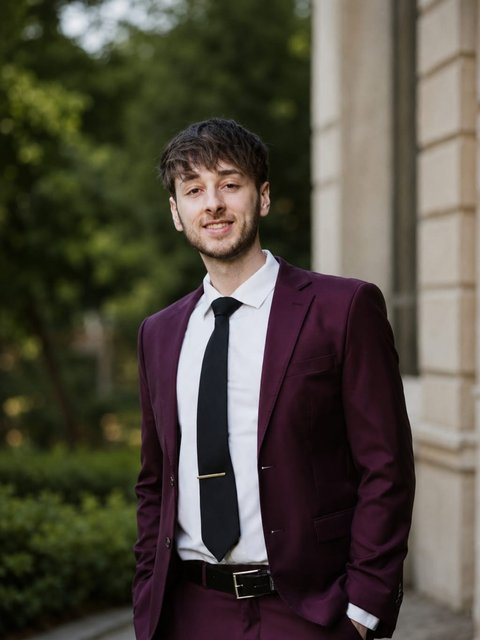
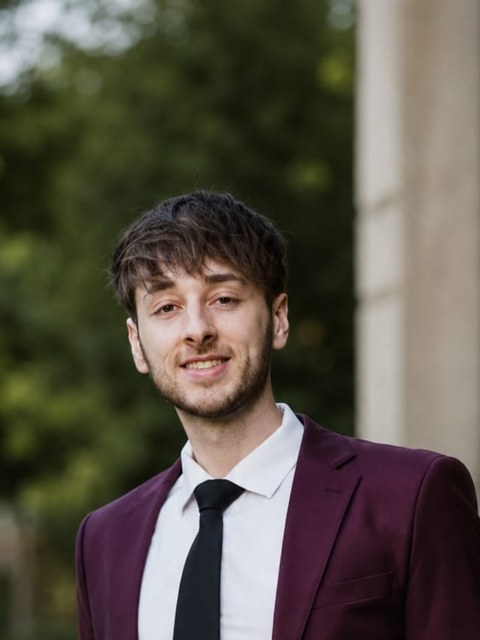
Real photos for Personas/Empresas, Nosotros polish, new WhatsApp number
- Replaced the Personas/Empresas quick-nav illustrations with the real
  photos the client sent (family paper-cutout / construction site),
  cropped to circles and enlarged slightly
- Removed the "Logos de referencia" caption under the aseguradoras strip
- Updated WhatsApp everywhere to the new number (1173669857) and
  restored a Lunes a viernes 9-18hs schedule under it in Contacto
- Nosotros: background back to white so the aseguradoras logos read
  correctly, added a blue frame around the CV card so it stands out
  against the white background, center-aligned it against the bio text
  (was align-items:start, now center), and re-cropped Guido's photo
  tighter so his face fills the frame instead of looking distant
- Simulador: added La Pampa (was the one province missing from the
  regional fallback) plus a few more city names for matching robustness
- Nav logo: added em-dashes around "ASESOR DE SEGUROS" and centered the
  brand text under it, matching the client's real logo lockup

diff --git a/guido-bonifati-landing/index.html b/guido-bonifati-landing/index.html
@@ -80,7 +80,7 @@
   .nav{display:flex;align-items:center;justify-content:space-between;padding:16px 28px;max-width:1180px;margin:0 auto;}
   .brand{display:flex;align-items:center;gap:10px;line-height:1;}
   .brand-mark{height:38px;width:auto;display:block;}
-  .brand-text{display:flex;flex-direction:column;}
+  .brand-text{display:flex;flex-direction:column;align-items:center;text-align:center;}
   .brand-name{font-family:var(--font-cond);font-weight:600;font-size:22px;color:var(--wine);letter-spacing:0.3px;}
   .brand-tag{font-size:9px;font-weight:700;letter-spacing:2.5px;color:var(--yellow-deep);margin-top:3px;}
   .nav-links{display:flex;align-items:center;gap:24px;}
@@ -165,13 +165,15 @@
   .quick-copy{flex:1;}
   .quick-card h3{font-family:var(--font-cond);font-size:28px;font-weight:600;color:#000;margin-bottom:6px;}
   .quick-card span{font-size:16px;color:var(--muted);}
-  .quick-illustration{width:96px;height:96px;flex-shrink:0;}
+  .quick-illustration{
+    width:116px;height:116px;flex-shrink:0;border-radius:50%;
+    object-fit:cover;box-shadow:0 4px 14px rgba(40,55,70,0.18);
+  }
 
   /* Nosotros / Quiénes somos */
-  .nosotros{background:var(--surface);}
-  .nosotros-grid{display:grid;grid-template-columns:1.4fr 0.9fr;gap:48px;align-items:start;margin-bottom:56px;}
+  .nosotros{background:#fff;}
+  .nosotros-grid{display:grid;grid-template-columns:1.4fr 0.9fr;gap:48px;align-items:center;margin-bottom:56px;}
   .nosotros-text p{font-size:15px;color:var(--text);margin-bottom:16px;}
-  .nosotros-text p:first-of-type{margin-top:26px;}
   .bio-social{display:flex;gap:10px;}
   .bio-social a{
     width:38px;height:38px;border-radius:50%;border:1.5px solid var(--border);color:var(--wine);
@@ -181,7 +183,7 @@
   .bio-social svg{width:16px;height:16px;}
 
   .cv-card{
-    background:#fff;border:1px solid var(--border);border-radius:var(--radius);
+    background:#fff;border:2px solid var(--wine);border-radius:var(--radius);
     padding:24px 22px 30px;text-align:center;box-shadow:var(--shadow);
     max-width:260px;margin:0 auto;
   }
@@ -421,7 +423,7 @@
       <img src="assets/logo/logo-mark.png" alt="" class="brand-mark">
       <span class="brand-text">
         <span class="brand-name">Guido Bonifati</span>
-        <span class="brand-tag">ASESOR&nbsp;DE&nbsp;SEGUROS</span>
+        <span class="brand-tag">— ASESOR&nbsp;DE&nbsp;SEGUROS —</span>
       </span>
     </a>
     <ul class="nav-links" id="navLinks">
@@ -483,20 +485,7 @@
         <h3>Seguros para Personas</h3>
         <span>Auto, vida, hogar y más →</span>
       </div>
-      <svg class="quick-illustration" viewBox="0 0 100 100" aria-hidden="true">
-        <circle cx="50" cy="50" r="48" fill="#EEF1F4"/>
-        <circle cx="38" cy="34" r="11" fill="#5B6472"/>
-        <path d="M20 82c0-14 8-24 18-24s18 10 18 24" fill="#5B6472"/>
-        <path d="M34 34a4.5 3 0 0 0 8 0" fill="none" stroke="#EEF1F4" stroke-width="1.6" stroke-linecap="round"/>
-        <circle cx="34.5" cy="30.5" r="1.1" fill="#EEF1F4"/><circle cx="41.5" cy="30.5" r="1.1" fill="#EEF1F4"/>
-        <circle cx="63" cy="30" r="11" fill="#34506B"/>
-        <path d="M45 84c0-15 8-26 18-26s18 11 18 26" fill="#34506B"/>
-        <path d="M59 30a4.5 3 0 0 0 8 0" fill="none" stroke="#EEF1F4" stroke-width="1.6" stroke-linecap="round"/>
-        <circle cx="59.5" cy="26.5" r="1.1" fill="#EEF1F4"/><circle cx="66.5" cy="26.5" r="1.1" fill="#EEF1F4"/>
-        <circle cx="50" cy="58" r="7" fill="#C9A227"/>
-        <path d="M38 88c0-9 5-16 12-16s12 7 12 16" fill="#C9A227"/>
-        <path d="M46.5 58a3.5 2.2 0 0 0 7 0" fill="none" stroke="#40390c" stroke-width="1.4" stroke-linecap="round" opacity="0.55"/>
-      </svg>
+      <img class="quick-illustration" src="assets/quick/personas.jpg" alt="" aria-hidden="true">
     </a>
     <a href="#empresas" class="quick-card quick-card--empresas">
       <div class="quick-icon">
@@ -506,23 +495,7 @@
         <h3>Seguros para Empresas</h3>
         <span>ART, RC, caución y más →</span>
       </div>
-      <svg class="quick-illustration" viewBox="0 0 100 100" aria-hidden="true">
-        <circle cx="50" cy="50" r="48" fill="#EEF1F4"/>
-        <rect x="30" y="24" width="40" height="56" rx="3" fill="#34506B"/>
-        <rect x="38" y="34" width="7" height="7" fill="#EEF1F4"/>
-        <rect x="55" y="34" width="7" height="7" fill="#EEF1F4"/>
-        <rect x="38" y="48" width="7" height="7" fill="#EEF1F4"/>
-        <rect x="55" y="48" width="7" height="7" fill="#EEF1F4"/>
-        <rect x="42" y="64" width="16" height="16" fill="#EEF1F4"/>
-        <rect x="16" y="50" width="16" height="30" rx="2" fill="#5B6472"/>
-        <rect x="20" y="58" width="4" height="4" fill="#EEF1F4"/>
-        <rect x="68" y="42" width="16" height="38" rx="2" fill="#5B6472"/>
-        <rect x="72" y="50" width="4" height="4" fill="#EEF1F4"/>
-        <rect x="72" y="60" width="4" height="4" fill="#EEF1F4"/>
-        <circle cx="50" cy="14" r="6" fill="#C9A227"/>
-        <circle cx="50" cy="70" r="4.5" fill="#40390c" opacity="0.85"/>
-        <path d="M43 90c0-6 3-11 7-11s7 5 7 11" fill="#40390c" opacity="0.85"/>
-      </svg>
+      <img class="quick-illustration" src="assets/quick/empresas.jpg" alt="" aria-hidden="true">
     </a>
   </div>
 </section>
@@ -562,9 +535,6 @@
       <img src="assets/aseguradoras/9-SANCOR-SEGUROS.png" alt="Sancor Seguros" aria-hidden="true">
     </div>
   </div>
-  <div class="container">
-    <p class="insurer-note">Logos de referencia — se confirman las aseguradoras aliadas definitivas.</p>
-  </div>
 </section>
 
 <section id="nosotros" class="nosotros" data-page="nosotros">
@@ -585,7 +555,7 @@
         <a href="mailto:guidobonifatiseguros@gmail.com" aria-label="Email">
           <svg viewBox="0 0 24 24" fill="none" stroke="currentColor" stroke-width="2" stroke-linecap="round" stroke-linejoin="round"><path d="M22 6 12 13 2 6"/><rect x="2" y="4" width="20" height="16" rx="2"/></svg>
         </a>
-        <a href="https://wa.me/5491121600427" target="_blank" rel="noopener" aria-label="WhatsApp">
+        <a href="https://wa.me/5491173669857" target="_blank" rel="noopener" aria-label="WhatsApp">
           <svg viewBox="0 0 24 24" fill="currentColor"><path d="M17.47 14.38c-.29-.15-1.72-.85-1.99-.95-.27-.1-.46-.15-.66.15-.2.29-.76.95-.93 1.15-.17.2-.34.22-.63.07-.29-.15-1.22-.45-2.33-1.44-.86-.77-1.44-1.71-1.61-2-.17-.29-.02-.45.13-.6.13-.13.29-.34.44-.51.15-.17.2-.29.29-.49.1-.2.05-.37-.02-.51-.07-.15-.66-1.59-.9-2.18-.24-.57-.48-.5-.66-.51h-.56c-.2 0-.51.07-.78.37-.27.29-1.02.99-1.02 2.43s1.04 2.82 1.19 3.02c.15.2 2.06 3.15 5 4.42.7.3 1.24.48 1.67.61.7.22 1.34.19 1.84.12.56-.08 1.72-.7 1.97-1.38.24-.68.24-1.26.17-1.38-.07-.12-.27-.2-.56-.35z"/><path d="M12.02 2C6.5 2 2.02 6.48 2.02 12c0 1.87.5 3.62 1.38 5.13L2 22l4.99-1.31A9.96 9.96 0 0 0 12.02 22C17.53 22 22 17.52 22 12S17.53 2 12.02 2zm0 18.11c-1.7 0-3.29-.47-4.65-1.28l-.33-.2-3.09.81.82-3.02-.22-.31A8.09 8.09 0 0 1 3.91 12c0-4.47 3.64-8.1 8.11-8.1 4.47 0 8.1 3.63 8.1 8.1s-3.63 8.11-8.1 8.11z"/></svg>
         </a>
         <a href="https://www.linkedin.com/in/guidobonifati" target="_blank" rel="noopener" aria-label="LinkedIn">
@@ -793,11 +763,11 @@
       <h2>Pedime tu cotización</h2>
       <p style="margin:16px 0 32px;font-size:16px;">Contame qué necesitás asegurar y te respondo con opciones concretas, sin compromiso.</p>
 
-      <a class="contact-info-item" href="https://wa.me/5491121600427" target="_blank" rel="noopener">
+      <a class="contact-info-item" href="https://wa.me/5491173669857" target="_blank" rel="noopener">
         <div class="contact-info-icon">
           <svg width="18" height="18" viewBox="0 0 24 24" fill="currentColor"><path d="M17.47 14.38c-.29-.15-1.72-.85-1.99-.95-.27-.1-.46-.15-.66.15-.2.29-.76.95-.93 1.15-.17.2-.34.22-.63.07-.29-.15-1.22-.45-2.33-1.44-.86-.77-1.44-1.71-1.61-2-.17-.29-.02-.45.13-.6.13-.13.29-.34.44-.51.15-.17.2-.29.29-.49.1-.2.05-.37-.02-.51-.07-.15-.66-1.59-.9-2.18-.24-.57-.48-.5-.66-.51h-.56c-.2 0-.51.07-.78.37-.27.29-1.02.99-1.02 2.43s1.04 2.82 1.19 3.02c.15.2 2.06 3.15 5 4.42.7.3 1.24.48 1.67.61.7.22 1.34.19 1.84.12.56-.08 1.72-.7 1.97-1.38.24-.68.24-1.26.17-1.38-.07-.12-.27-.2-.56-.35z"/><path d="M12.02 2C6.5 2 2.02 6.48 2.02 12c0 1.87.5 3.62 1.38 5.13L2 22l4.99-1.31A9.96 9.96 0 0 0 12.02 22C17.53 22 22 17.52 22 12S17.53 2 12.02 2zm0 18.11c-1.7 0-3.29-.47-4.65-1.28l-.33-.2-3.09.81.82-3.02-.22-.31A8.09 8.09 0 0 1 3.91 12c0-4.47 3.64-8.1 8.11-8.1 4.47 0 8.1 3.63 8.1 8.1s-3.63 8.11-8.1 8.11z"/></svg>
         </div>
-        <div><b>11 2160-0427 · WhatsApp</b><span>Escribime cuando quieras</span></div>
+        <div><b>11 7366-9857 · WhatsApp</b><span>Lunes a viernes, 9 a 18 hs</span></div>
       </a>
       <a class="contact-info-item" href="mailto:guidobonifatiseguros@gmail.com">
         <div class="contact-info-icon">
@@ -884,9 +854,9 @@
           <li><a href="mailto:guidobonifatiseguros@gmail.com">
             <svg width="14" height="14" viewBox="0 0 24 24" fill="none" stroke="currentColor" stroke-width="2" stroke-linecap="round" stroke-linejoin="round"><path d="M4 4h16v16H4z" opacity="0"/><path d="M22 6 12 13 2 6"/><rect x="2" y="4" width="20" height="16" rx="2"/></svg>
             guidobonifatiseguros@gmail.com</a></li>
-          <li><a href="https://wa.me/5491121600427" target="_blank" rel="noopener">
+          <li><a href="https://wa.me/5491173669857" target="_blank" rel="noopener">
             <svg width="14" height="14" viewBox="0 0 24 24" fill="currentColor"><path d="M17.47 14.38c-.29-.15-1.72-.85-1.99-.95-.27-.1-.46-.15-.66.15-.2.29-.76.95-.93 1.15-.17.2-.34.22-.63.07-.29-.15-1.22-.45-2.33-1.44-.86-.77-1.44-1.71-1.61-2-.17-.29-.02-.45.13-.6.13-.13.29-.34.44-.51.15-.17.2-.29.29-.49.1-.2.05-.37-.02-.51-.07-.15-.66-1.59-.9-2.18-.24-.57-.48-.5-.66-.51h-.56c-.2 0-.51.07-.78.37-.27.29-1.02.99-1.02 2.43s1.04 2.82 1.19 3.02c.15.2 2.06 3.15 5 4.42.7.3 1.24.48 1.67.61.7.22 1.34.19 1.84.12.56-.08 1.72-.7 1.97-1.38.24-.68.24-1.26.17-1.38-.07-.12-.27-.2-.56-.35z"/></svg>
-            11 2160-0427</a></li>
+            11 7366-9857</a></li>
         </ul>
       </div>
       <div class="footer-col">
@@ -915,7 +885,7 @@
   <div class="footer-bar">Productor Asesor de Seguros — Matrícula N° [completar] ante la Superintendencia de Seguros de la Nación</div>
 </footer>
 
-<a class="wa-float" id="waFloat" href="https://wa.me/5491121600427?text=Hola%20Guido%2C%20quiero%20consultar%20por%20un%20seguro" target="_blank" rel="noopener" aria-label="Escribir por WhatsApp">
+<a class="wa-float" id="waFloat" href="https://wa.me/5491173669857?text=Hola%20Guido%2C%20quiero%20consultar%20por%20un%20seguro" target="_blank" rel="noopener" aria-label="Escribir por WhatsApp">
   <svg width="30" height="30" viewBox="0 0 24 24" fill="#fff"><path d="M17.47 14.38c-.29-.15-1.72-.85-1.99-.95-.27-.1-.46-.15-.66.15-.2.29-.76.95-.93 1.15-.17.2-.34.22-.63.07-.29-.15-1.22-.45-2.33-1.44-.86-.77-1.44-1.71-1.61-2-.17-.29-.02-.45.13-.6.13-.13.29-.34.44-.51.15-.17.2-.29.29-.49.1-.2.05-.37-.02-.51-.07-.15-.66-1.59-.9-2.18-.24-.57-.48-.5-.66-.51h-.56c-.2 0-.51.07-.78.37-.27.29-1.02.99-1.02 2.43s1.04 2.82 1.19 3.02c.15.2 2.06 3.15 5 4.42.7.3 1.24.48 1.67.61.7.22 1.34.19 1.84.12.56-.08 1.72-.7 1.97-1.38.24-.68.24-1.26.17-1.38-.07-.12-.27-.2-.56-.35z"/><path d="M12.02 2C6.5 2 2.02 6.48 2.02 12c0 1.87.5 3.62 1.38 5.13L2 22l4.99-1.31A9.96 9.96 0 0 0 12.02 22C17.53 22 22 17.52 22 12S17.53 2 12.02 2zm0 18.11c-1.7 0-3.29-.47-4.65-1.28l-.33-.2-3.09.81.82-3.02-.22-.31A8.09 8.09 0 0 1 3.91 12c0-4.47 3.64-8.1 8.11-8.1 4.47 0 8.1 3.63 8.1 8.1s-3.63 8.11-8.1 8.11z"/></svg>
 </a>
 
@@ -989,7 +959,7 @@
     const text = encodeURIComponent(
       `Hola Guido, soy ${nombre}. Quiero cotizar: ${producto}. ${mensaje}\nMi teléfono: ${telefono}${email ? '\nMi email: ' + email : ''}`
     );
-    window.open(`https://wa.me/5491121600427?text=${text}`, '_blank');
+    window.open(`https://wa.me/5491173669857?text=${text}`, '_blank');
   });
 
   // Animated counters — count from 0 to target once the stats section enters the viewport
@@ -1037,19 +1007,19 @@
     { name: 'Cuyo', match: ['mendoza', 'san juan', 'san luis', 'san rafael', 'godoy cruz'],
       text: 'los riesgos más comunes en tu región son <b>sismo</b> y <b>granizo</b> (tormentas de verano en la zona serrana).',
       tip: 'Te recomiendo evaluar cobertura contra granizo y una cláusula de riesgo sísmico si corresponde.' },
-    { name: 'Litoral / NEA', match: ['santa fe', 'paraná', 'parana', 'entre ríos', 'entre rios', 'corrientes', 'resistencia', 'chaco', 'formosa', 'posadas', 'misiones'],
+    { name: 'Litoral / NEA', match: ['santa fe', 'paraná', 'parana', 'entre ríos', 'entre rios', 'concordia', 'gualeguaychú', 'corrientes', 'resistencia', 'chaco', 'formosa', 'posadas', 'misiones', 'santo tomé'],
       text: 'los riesgos más comunes en tu región son <b>inundación</b> por crecida de ríos y <b>daños eléctricos por tormenta</b>.',
       tip: 'Te recomiendo priorizar cobertura contra inundación y daños eléctricos.' },
     { name: 'NOA', match: ['salta', 'jujuy', 'tucumán', 'tucuman', 'santiago del estero', 'catamarca', 'la rioja'],
       text: 'los riesgos más comunes en tu región son <b>granizo</b> y <b>tormentas de verano</b>.',
       tip: 'Te recomiendo priorizar cobertura contra granizo y daños climáticos.' },
-    { name: 'Patagonia', match: ['neuquén', 'neuquen', 'río negro', 'rio negro', 'bariloche', 'chubut', 'comodoro rivadavia', 'santa cruz', 'río gallegos', 'rio gallegos', 'tierra del fuego', 'ushuaia'],
+    { name: 'Patagonia', match: ['neuquén', 'neuquen', 'río negro', 'rio negro', 'bariloche', 'viedma', 'chubut', 'rawson', 'trelew', 'comodoro rivadavia', 'santa cruz', 'río gallegos', 'rio gallegos', 'tierra del fuego', 'ushuaia', 'río grande'],
       text: 'los riesgos más comunes en tu región son <b>viento fuerte</b> y <b>daños por nieve/heladas</b> en temporada.',
       tip: 'Te recomiendo evaluar cobertura contra daños climáticos (viento y nieve).' },
     { name: 'Costa atlántica bonaerense', match: ['pinamar', 'villa gesell', 'necochea', 'bahía blanca', 'bahia blanca', 'tandil'],
       text: 'los riesgos más comunes en tu región son <b>temporales/viento</b> y <b>robo</b> en temporada alta.',
       tip: 'Te recomiendo evaluar cobertura contra daños climáticos y robo total/parcial.' },
-    { name: 'Buenos Aires (provincia, general)', match: ['buenos aires', 'provincia de buenos aires', 'gba', 'conurbano'],
+    { name: 'Buenos Aires / La Pampa (región pampeana)', match: ['buenos aires', 'provincia de buenos aires', 'gba', 'conurbano', 'la pampa', 'santa rosa'],
       text: 'los riesgos más comunes en tu región son <b>robo de auto</b> y <b>granizo</b>.',
       tip: 'Te recomiendo evaluar cobertura contra robo total/parcial y daños climáticos.' },
   ];
